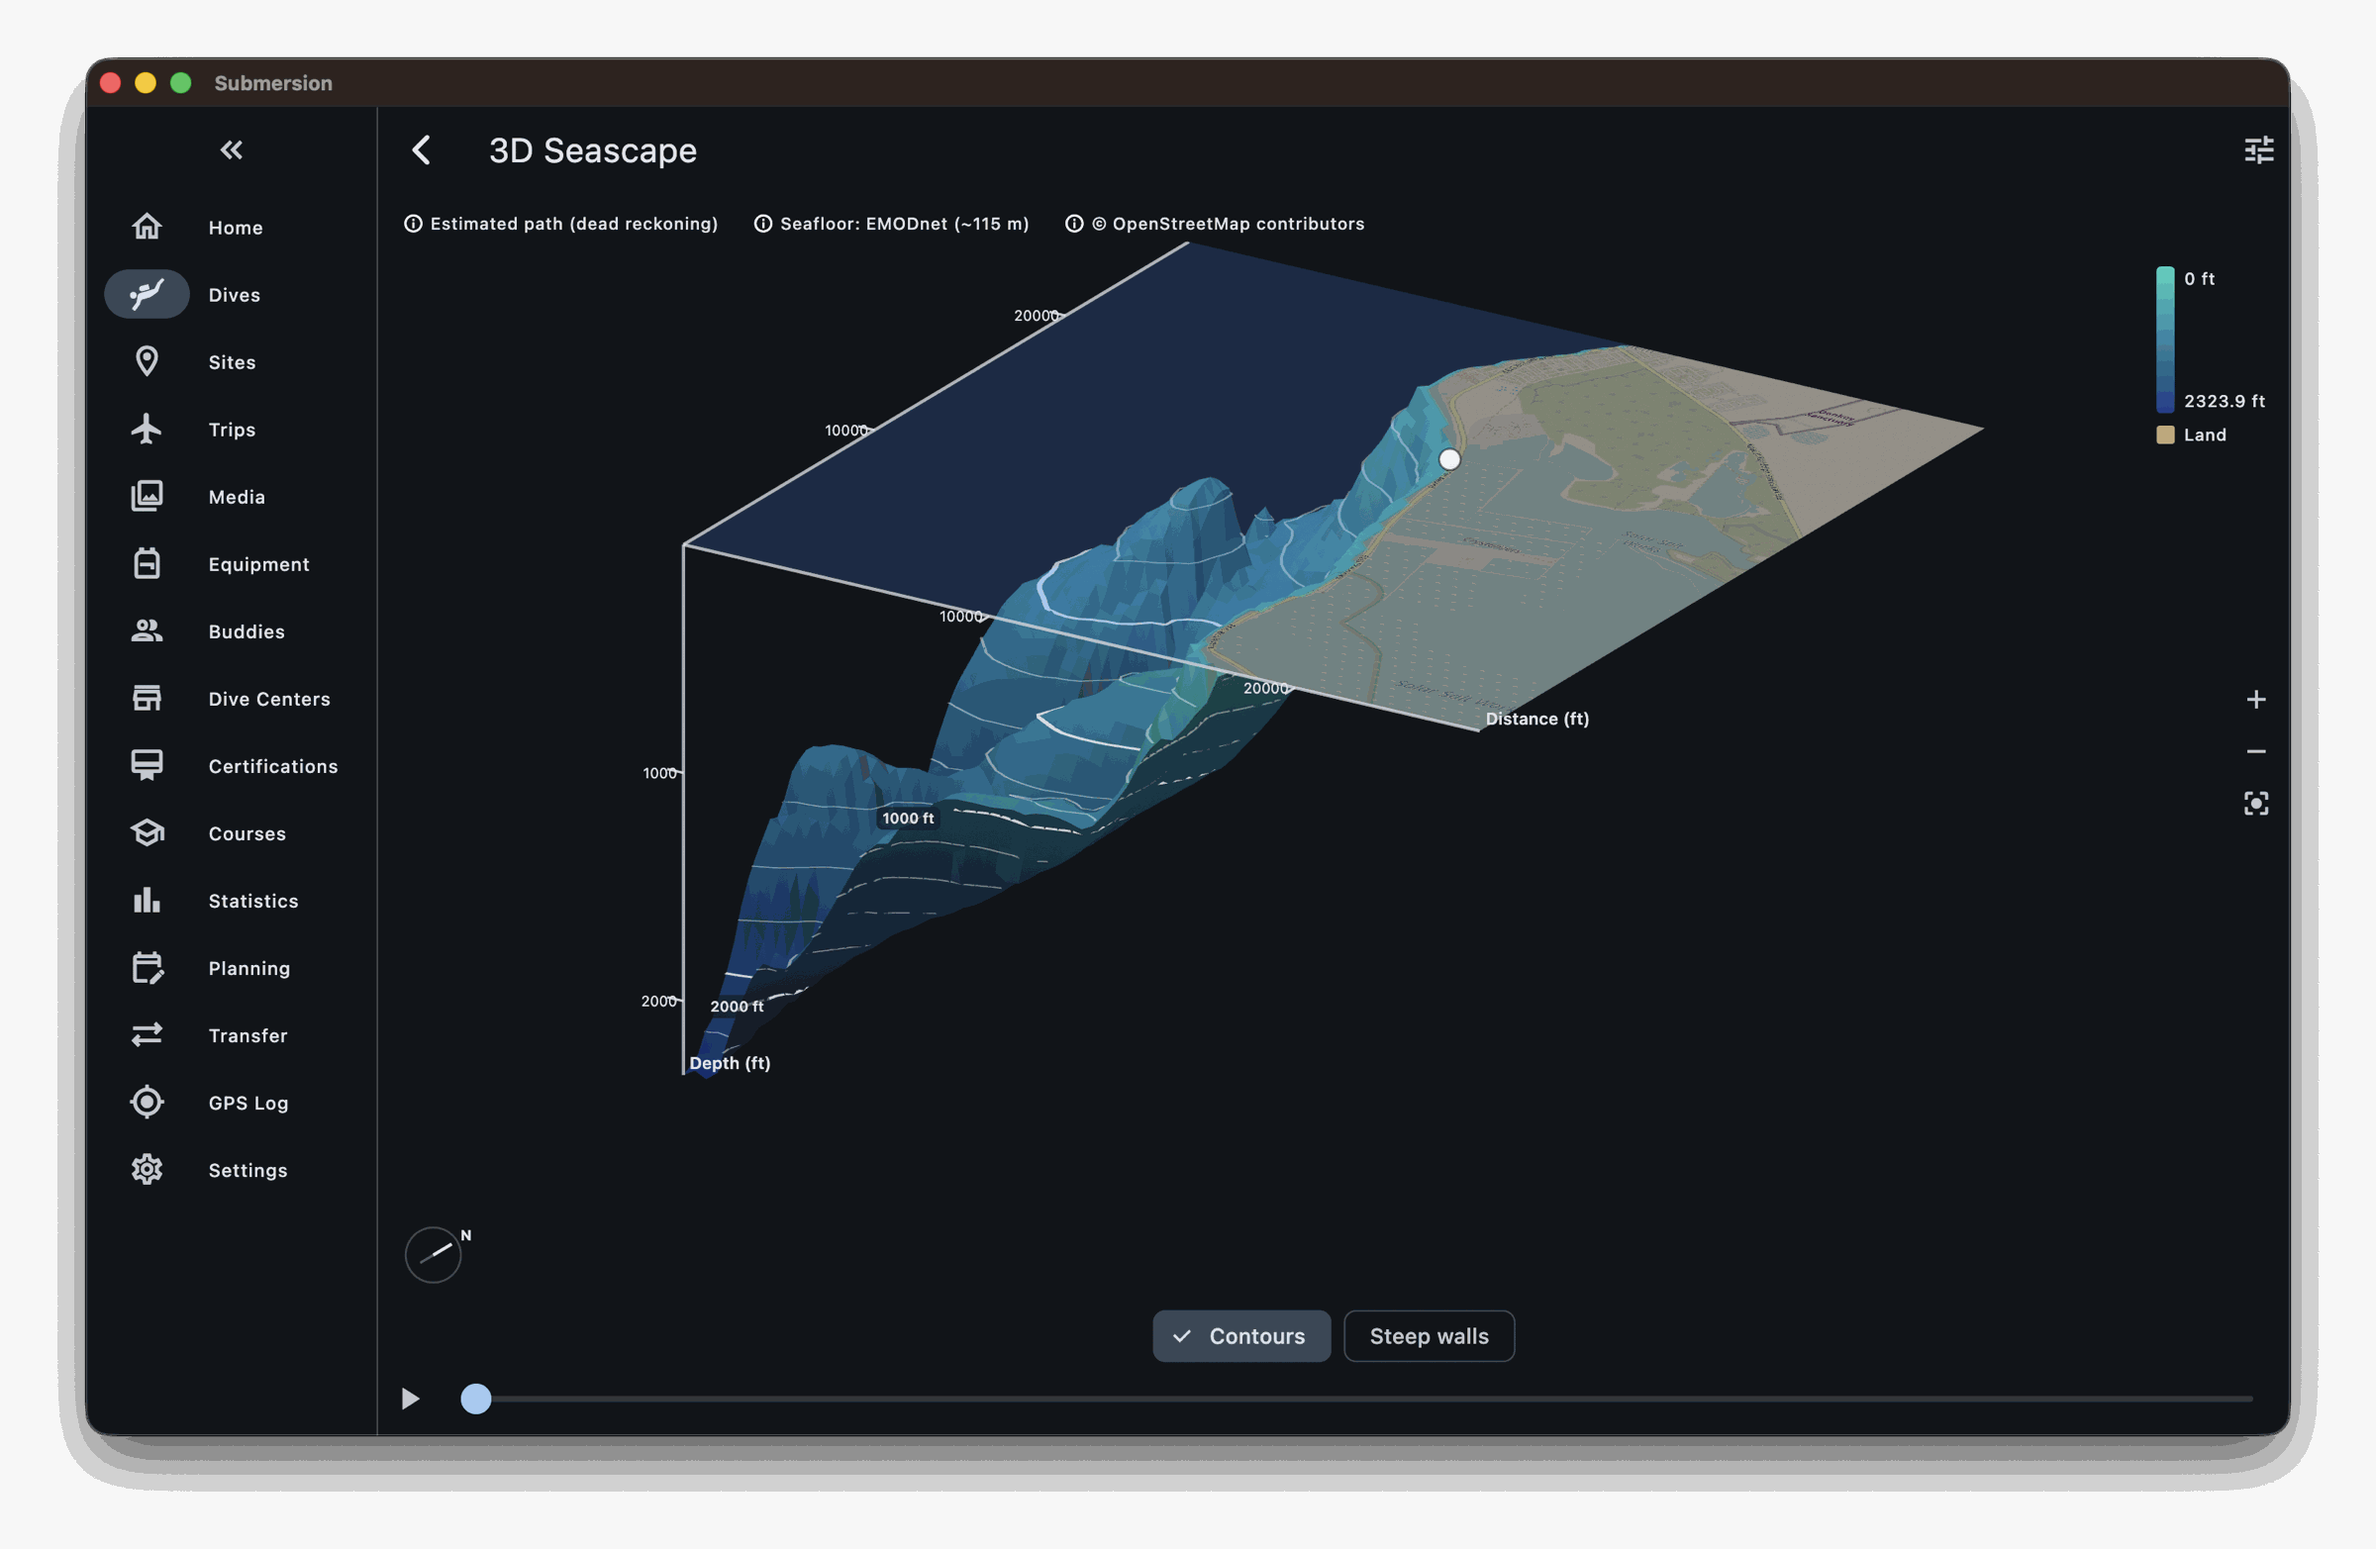
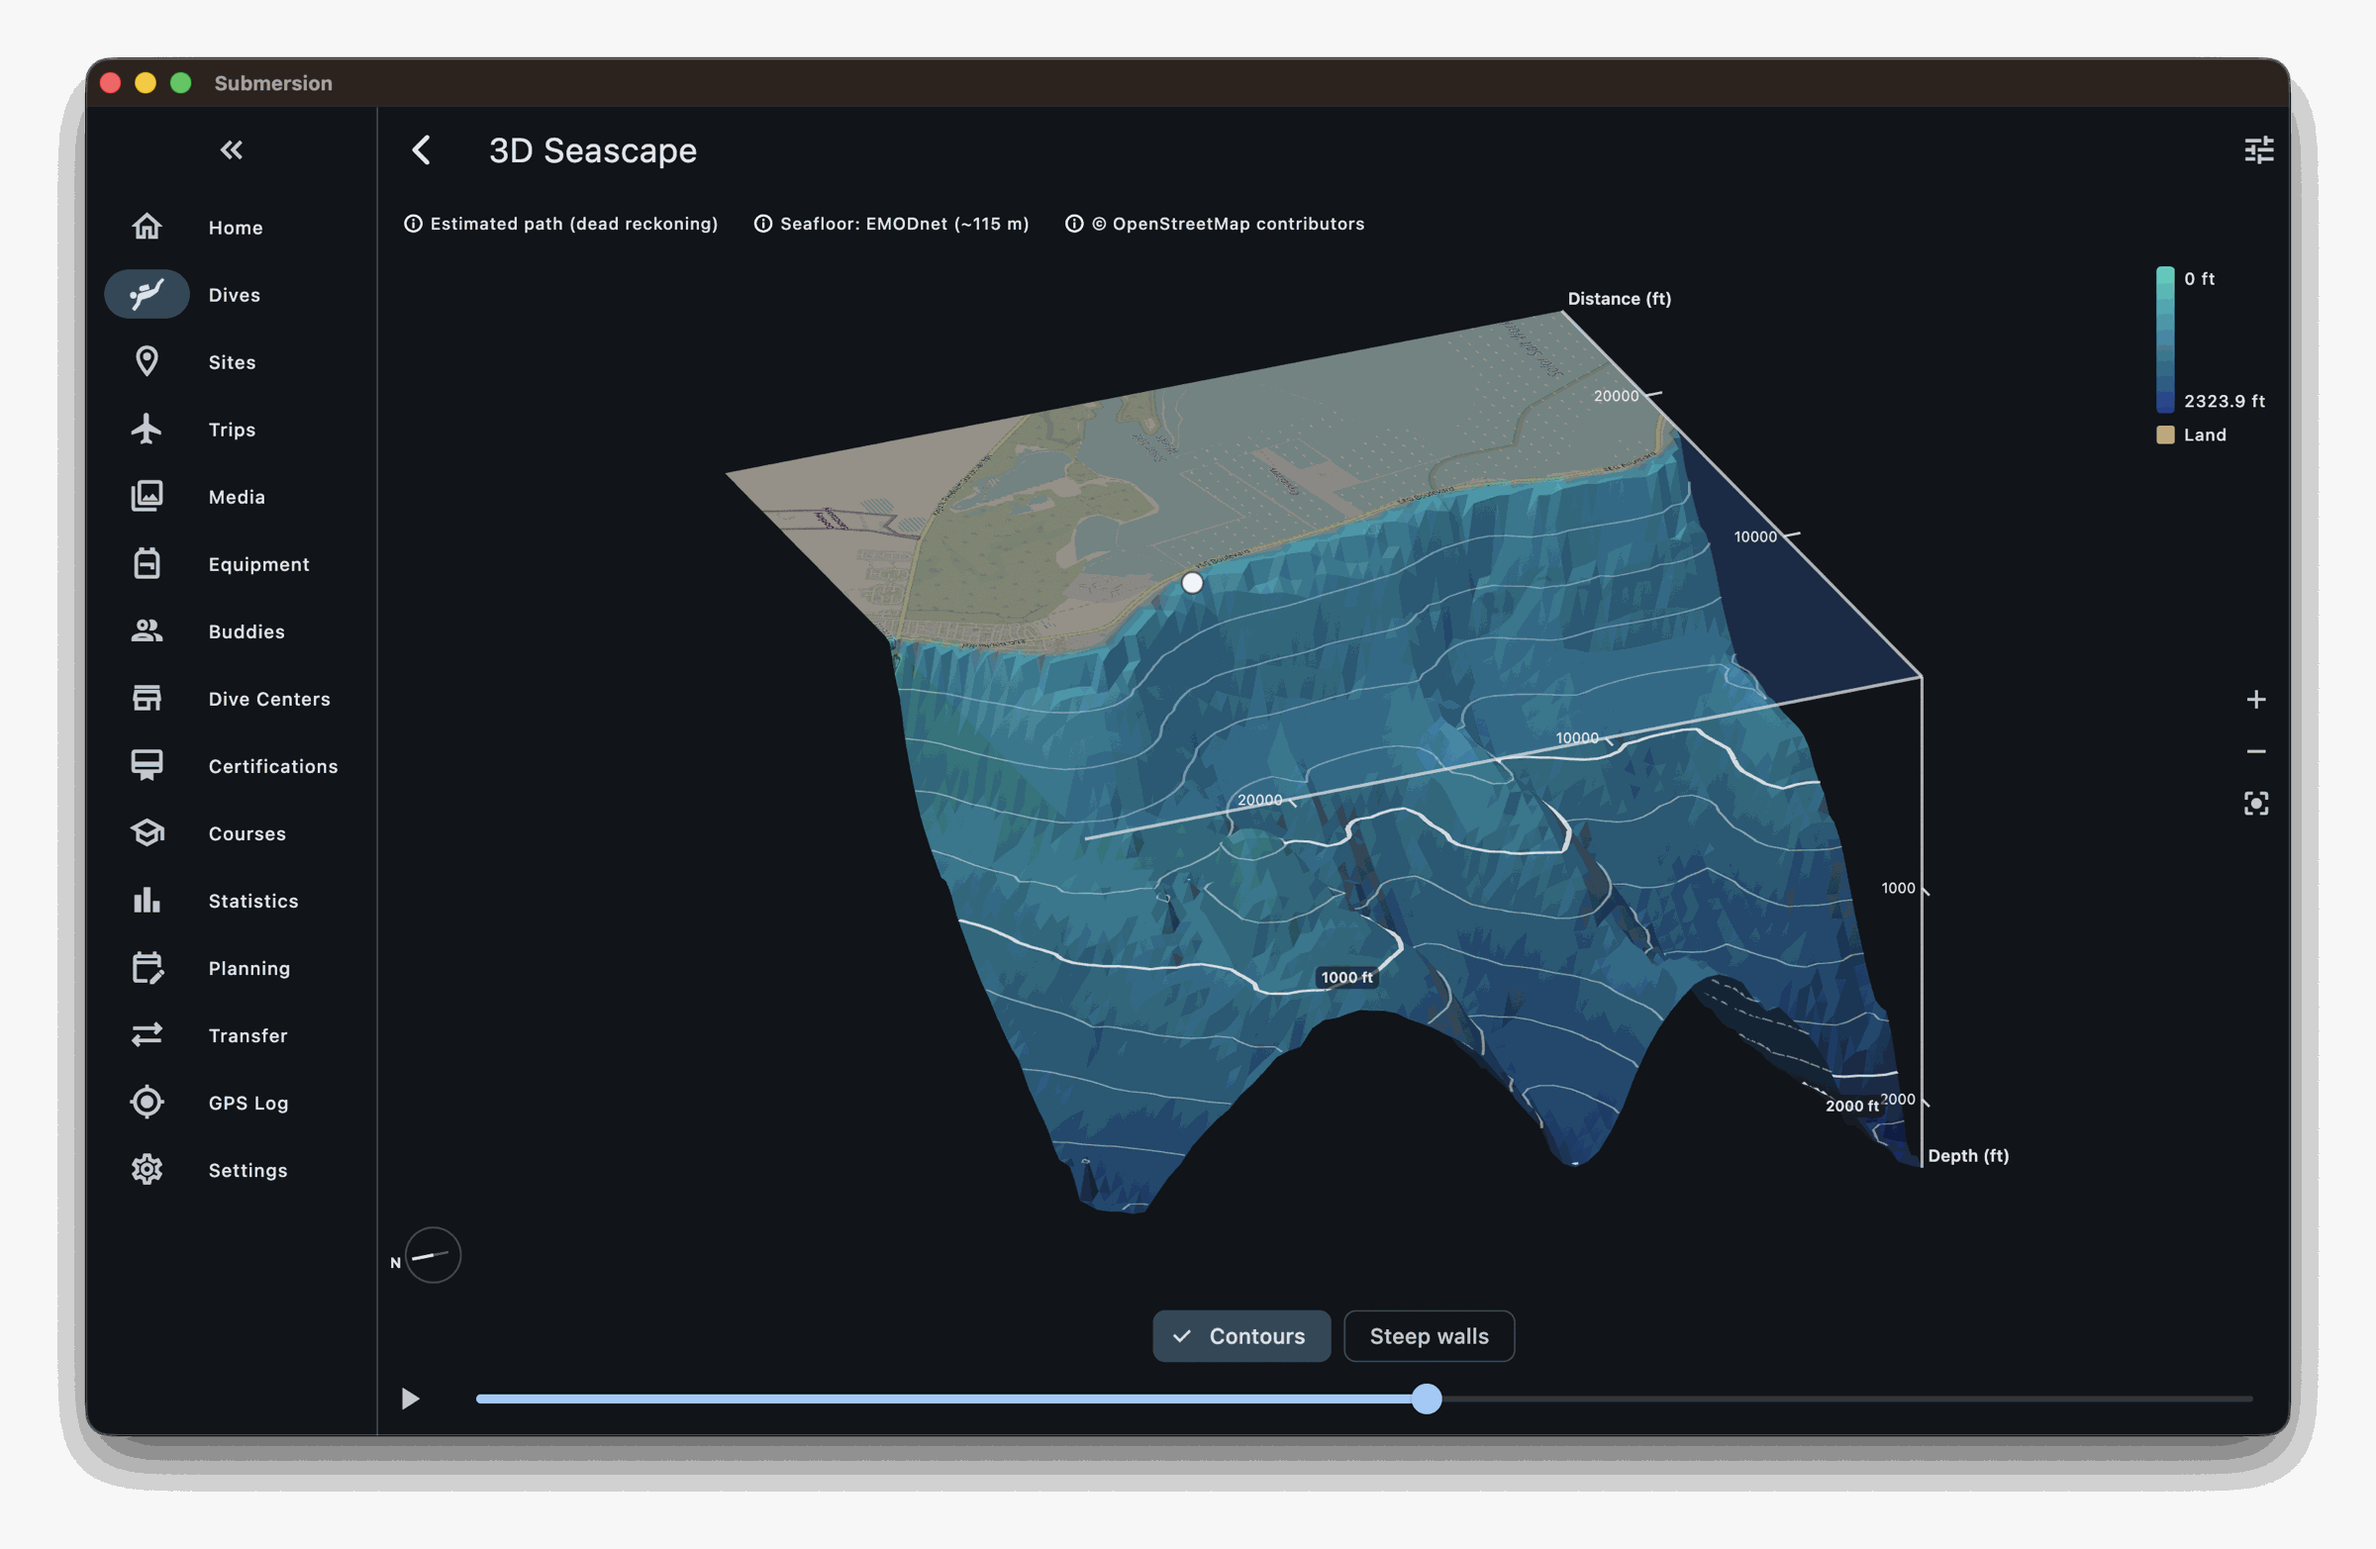
Recapture the seafloor view facing the viewer and the media viewer with overlays
Claude-Session: https://claude.ai/code/session_01BK9uBQEs8wN5rHCUNCGXxz

Changed region(s): [[0.2812, 0.1534, 0.8438, 0.7974], [0.1875, 0.8895, 0.625, 0.9201]]

diff --git a/index.html b/index.html
@@ -271,8 +271,8 @@
           </p>
           <div class="shots">
             <figure>
-              <img src="screenshots/photo_gallery.png" alt="Photo and video gallery for a dive with each shot placed on the dive profile" width="2400" height="1636" loading="lazy" decoding="async" />
-              <figcaption>A dive's photos and video, each placed on the profile at the moment it was taken.</figcaption>
+              <img src="screenshots/photo_gallery.png" alt="A dive video shown full screen with a dive computer face overlay reading depth, NDL, time, gas and tank pressure, and a small dive profile marking the moment it was taken" width="2400" height="1627" loading="lazy" decoding="async" />
+              <figcaption>A photo or video full screen, with what your computer read at that moment and where it sits on the profile.</figcaption>
             </figure>
             <figure>
               <img src="screenshots/equipment_sets.png" alt="Equipment sets screen showing a warm water gear configuration" width="2400" height="1636" loading="lazy" decoding="async" />
